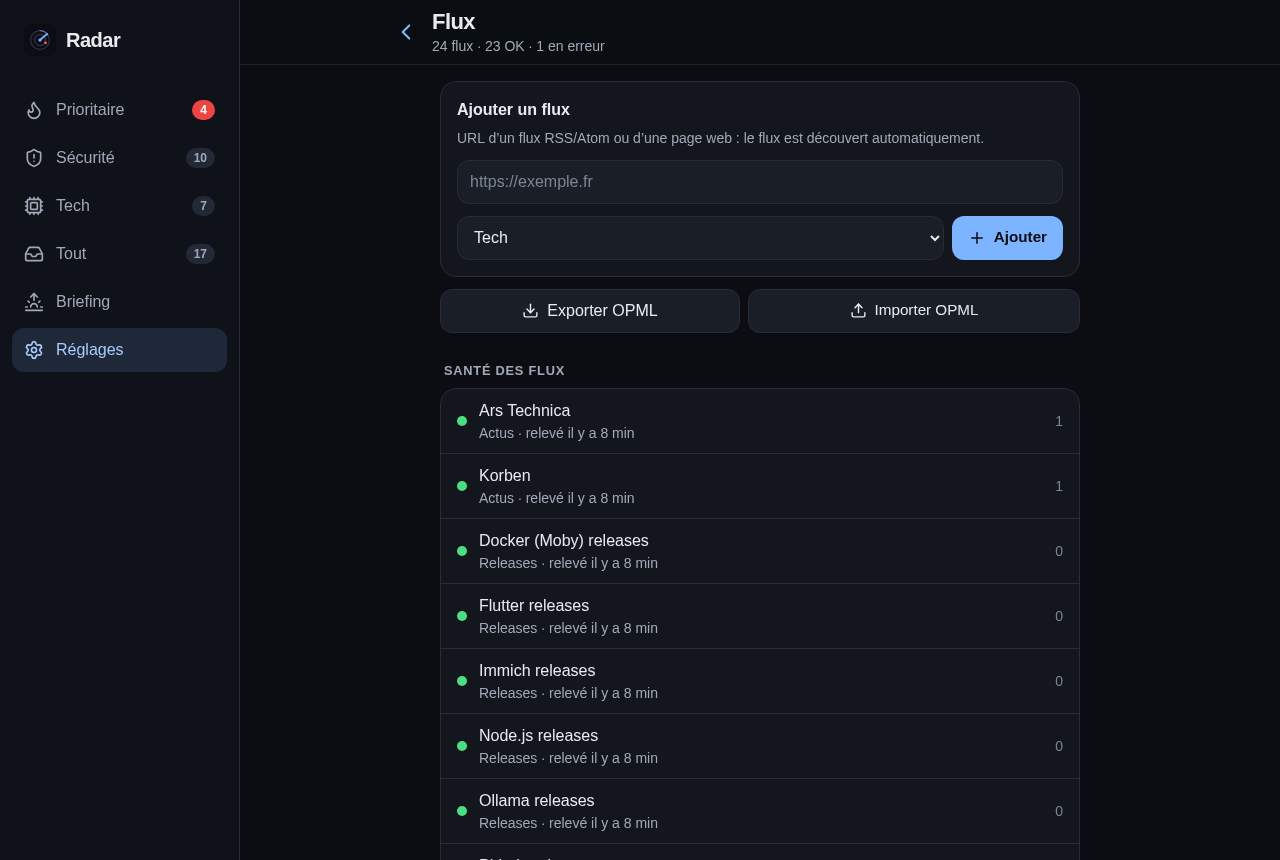
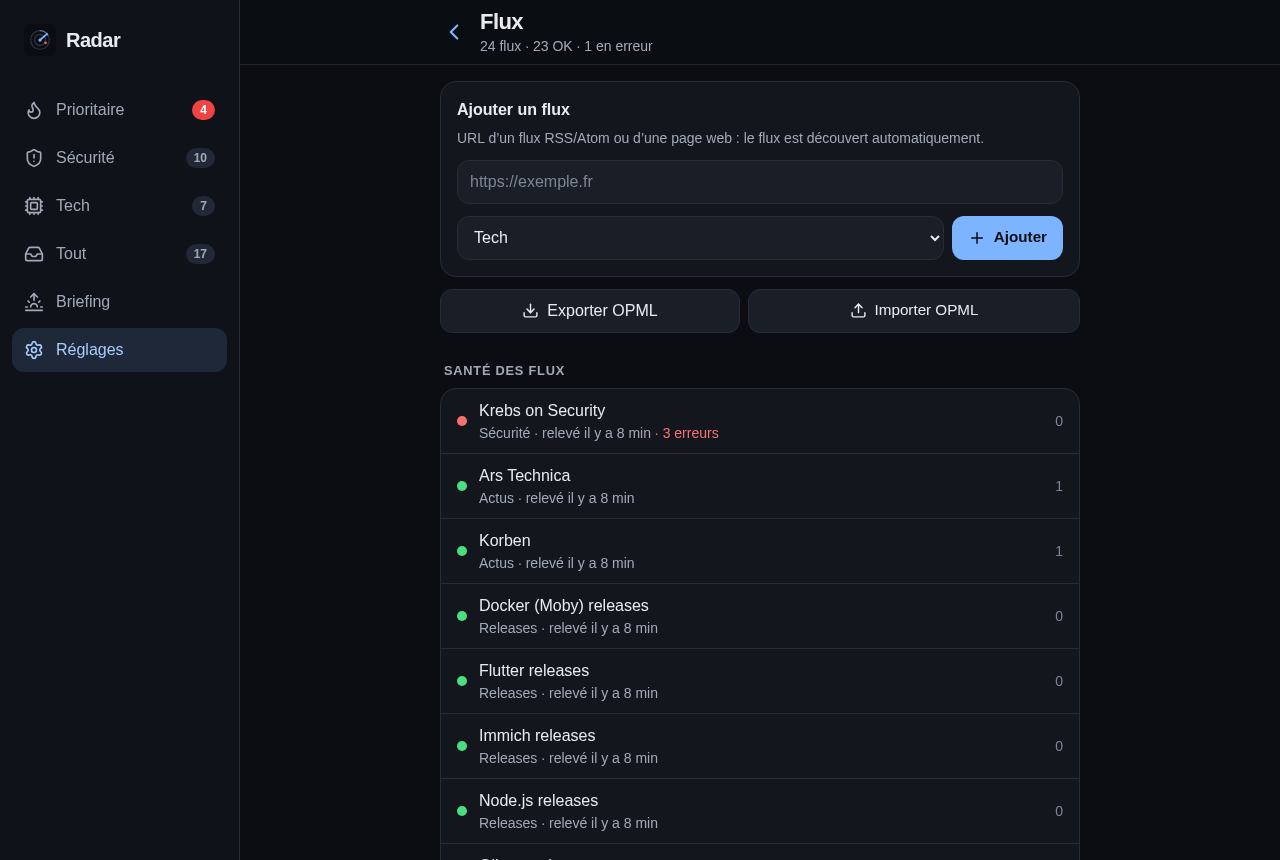
fix(web): alignement des en-têtes desktop, santé des flux triée par gravité, captures régénérées

diff --git a/web/src/pages/FeedsPage.tsx b/web/src/pages/FeedsPage.tsx
@@ -13,6 +13,7 @@ const STATUS: Record<Feed['status'], { label: string; cls: string }> = {
   disabled: { label: 'Désactivé', cls: 'bg-surface-3' },
 };
 const CATS: Category[] = ['security', 'tech', 'releases', 'news'];
+const STATUS_ORDER: Feed['status'][] = ['error', 'warning', 'pending', 'ok', 'disabled'];
 
 export function FeedsPage() {
   const qc = useQueryClient();
@@ -44,7 +45,7 @@ export function FeedsPage() {
   const counts = (data ?? []).reduce<Record<string, number>>((m, f) => ({ ...m, [f.status]: (m[f.status] ?? 0) + 1 }), {});
   return (
     <>
-      <PageHeader title="Flux" back="/settings" subtitle={data ? `${data.length} flux · ${counts.ok ?? 0} OK · ${(counts.warning ?? 0) + (counts.error ?? 0)} en erreur` : undefined} />
+      <PageHeader width="max-w-2xl" title="Flux" back="/settings" subtitle={data ? `${data.length} flux · ${counts.ok ?? 0} OK · ${(counts.warning ?? 0) + (counts.error ?? 0)} en erreur` : undefined} />
       <main className="px-safe pb-tabbar mx-auto max-w-2xl pt-4">
         <form
           className="rounded-2xl border border-border bg-surface p-4"
@@ -75,7 +76,7 @@ export function FeedsPage() {
           <div className="flex justify-center py-10"><Spinner /></div>
         ) : (
           <ul className="divide-y divide-border overflow-hidden rounded-2xl border border-border bg-surface">
-            {data?.map((f) => (
+            {[...(data ?? [])].sort((a, b) => STATUS_ORDER.indexOf(a.status) - STATUS_ORDER.indexOf(b.status)).map((f) => (
               <li key={f.id}>
                 <button type="button" aria-expanded={open === f.id} onClick={() => setOpen(open === f.id ? null : f.id)} className="flex min-h-14 w-full items-center gap-3 px-4 py-2.5 text-left hover:bg-surface-2">
                   <span aria-label={STATUS[f.status].label} title={STATUS[f.status].label} className={`h-2.5 w-2.5 shrink-0 rounded-full ${STATUS[f.status].cls}`} />

diff --git a/web/src/pages/ItemPage.tsx b/web/src/pages/ItemPage.tsx
@@ -22,8 +22,8 @@ export function ItemPage() {
     }
   }, [data, setRead]);
 
-  if (isPending) return <><PageHeader title="" back /><div className="flex justify-center py-20"><Spinner size={28} /></div></>;
-  if (isError || !data) return <><PageHeader title="Article" back /><EmptyState icon={<FileText size={28} />} title="Article indisponible">{(error as Error | null)?.message ?? 'Introuvable'}</EmptyState></>;
+  if (isPending) return <><PageHeader width="max-w-[44rem]" title="" back /><div className="flex justify-center py-20"><Spinner size={28} /></div></>;
+  if (isError || !data) return <><PageHeader width="max-w-[44rem]" title="Article" back /><EmptyState icon={<FileText size={28} />} title="Article indisponible">{(error as Error | null)?.message ?? 'Introuvable'}</EmptyState></>;
 
   const html = mode === 'readable' && data.readableHtml ? data.readableHtml : data.contentHtml || data.summaryHtml;
   const share = async () => {
@@ -32,7 +32,7 @@ export function ItemPage() {
   };
   return (
     <>
-      <PageHeader
+      <PageHeader width="max-w-[44rem]"
         title=""
         back
         actions={

diff --git a/web/src/pages/WatchlistPage.tsx b/web/src/pages/WatchlistPage.tsx
@@ -9,7 +9,7 @@ export function WatchlistPage() {
   const { data, isPending } = useQuery({ queryKey: ['watchlist'], queryFn: api.watchlist });
   return (
     <>
-      <PageHeader
+      <PageHeader width="max-w-2xl"
         title="Watchlist"
         back="/settings"
         actions={
@@ -78,11 +78,11 @@ export function WatchEditPage() {
     },
   });
 
-  if (!f) return <><PageHeader title="Techno" back="/settings/watchlist" /><div className="flex justify-center py-10"><Spinner /></div></>;
+  if (!f) return <><PageHeader width="max-w-2xl" title="Techno" back="/settings/watchlist" /><div className="flex justify-center py-10"><Spinner /></div></>;
   const set = (p: Partial<typeof EMPTY>) => setForm({ ...f, ...p });
   return (
     <>
-      <PageHeader
+      <PageHeader width="max-w-2xl"
         title={isNew ? 'Nouvelle techno' : f.name}
         back="/settings/watchlist"
         actions={!isNew && <IconButton label="Supprimer" onClick={() => window.confirm(`Supprimer « ${f.name} » ?`) && del.mutate()}><Trash2 size={20} className="text-danger" /></IconButton>}

diff --git a/web/src/components/ui.tsx b/web/src/components/ui.tsx
@@ -6,11 +6,11 @@ export function Spinner({ size = 20, label = 'Chargement' }: { size?: number; la
   return <Loader2 role="status" aria-label={label} size={size} className="animate-spin-slow text-muted" />;
 }
 
-export function PageHeader({ title, back, actions, subtitle }: { title: ReactNode; back?: boolean | string; actions?: ReactNode; subtitle?: ReactNode }) {
+export function PageHeader({ title, back, actions, subtitle, width = 'max-w-3xl' }: { title: ReactNode; back?: boolean | string; actions?: ReactNode; subtitle?: ReactNode; width?: string }) {
   const navigate = useNavigate();
   return (
     <header className="pt-safe sticky top-0 z-20 border-b border-border/70 bg-bg/85 backdrop-blur-xl supports-[backdrop-filter]:bg-bg/75">
-      <div className="px-safe mx-auto flex min-h-14 max-w-3xl items-center gap-1">
+      <div className={`px-safe mx-auto flex min-h-14 ${width} items-center gap-1`}>
         {back && (
           <button
             type="button"

diff --git a/web/src/pages/VulnPage.tsx b/web/src/pages/VulnPage.tsx
@@ -20,12 +20,12 @@ export function VulnPage() {
     }
   }, [data, setRead]);
 
-  if (isPending) return <><PageHeader title={id} back /><div className="flex justify-center py-20"><Spinner size={28} /></div></>;
-  if (isError || !data) return <><PageHeader title={id} back /><EmptyState icon={<ShieldQuestion size={28} />} title="Fiche indisponible">{(error as Error | null)?.message}</EmptyState></>;
+  if (isPending) return <><PageHeader width="max-w-[44rem]" title={id} back /><div className="flex justify-center py-20"><Spinner size={28} /></div></>;
+  if (isError || !data) return <><PageHeader width="max-w-[44rem]" title={id} back /><EmptyState icon={<ShieldQuestion size={28} />} title="Fiche indisponible">{(error as Error | null)?.message}</EmptyState></>;
 
   return (
     <>
-      <PageHeader
+      <PageHeader width="max-w-[44rem]"
         title={<span className="font-mono">{data.id}</span>}
         back
         actions={data.itemId ? (

diff --git a/web/src/pages/BriefingPage.tsx b/web/src/pages/BriefingPage.tsx
@@ -37,7 +37,7 @@ export function BriefingPage() {
 
   return (
     <>
-      <PageHeader
+      <PageHeader width="max-w-[44rem]"
         title="Briefing du matin"
         back={params.id ? '/briefing' : undefined}
         actions={<Button variant="ghost" onClick={() => gen.mutate()} disabled={gen.isPending} className="!px-3">{gen.isPending ? <Spinner size={18} /> : <RefreshCw size={18} />}<span className="hidden min-[420px]:inline">Générer</span></Button>}

diff --git a/web/src/pages/SettingsPage.tsx b/web/src/pages/SettingsPage.tsx
@@ -19,7 +19,7 @@ export function SettingsPage() {
 
   return (
     <>
-      <PageHeader title="Réglages" />
+      <PageHeader width="max-w-2xl" title="Réglages" />
       <main className="px-safe pb-tabbar mx-auto max-w-2xl">
         <PushSection />
         {!s ? (
